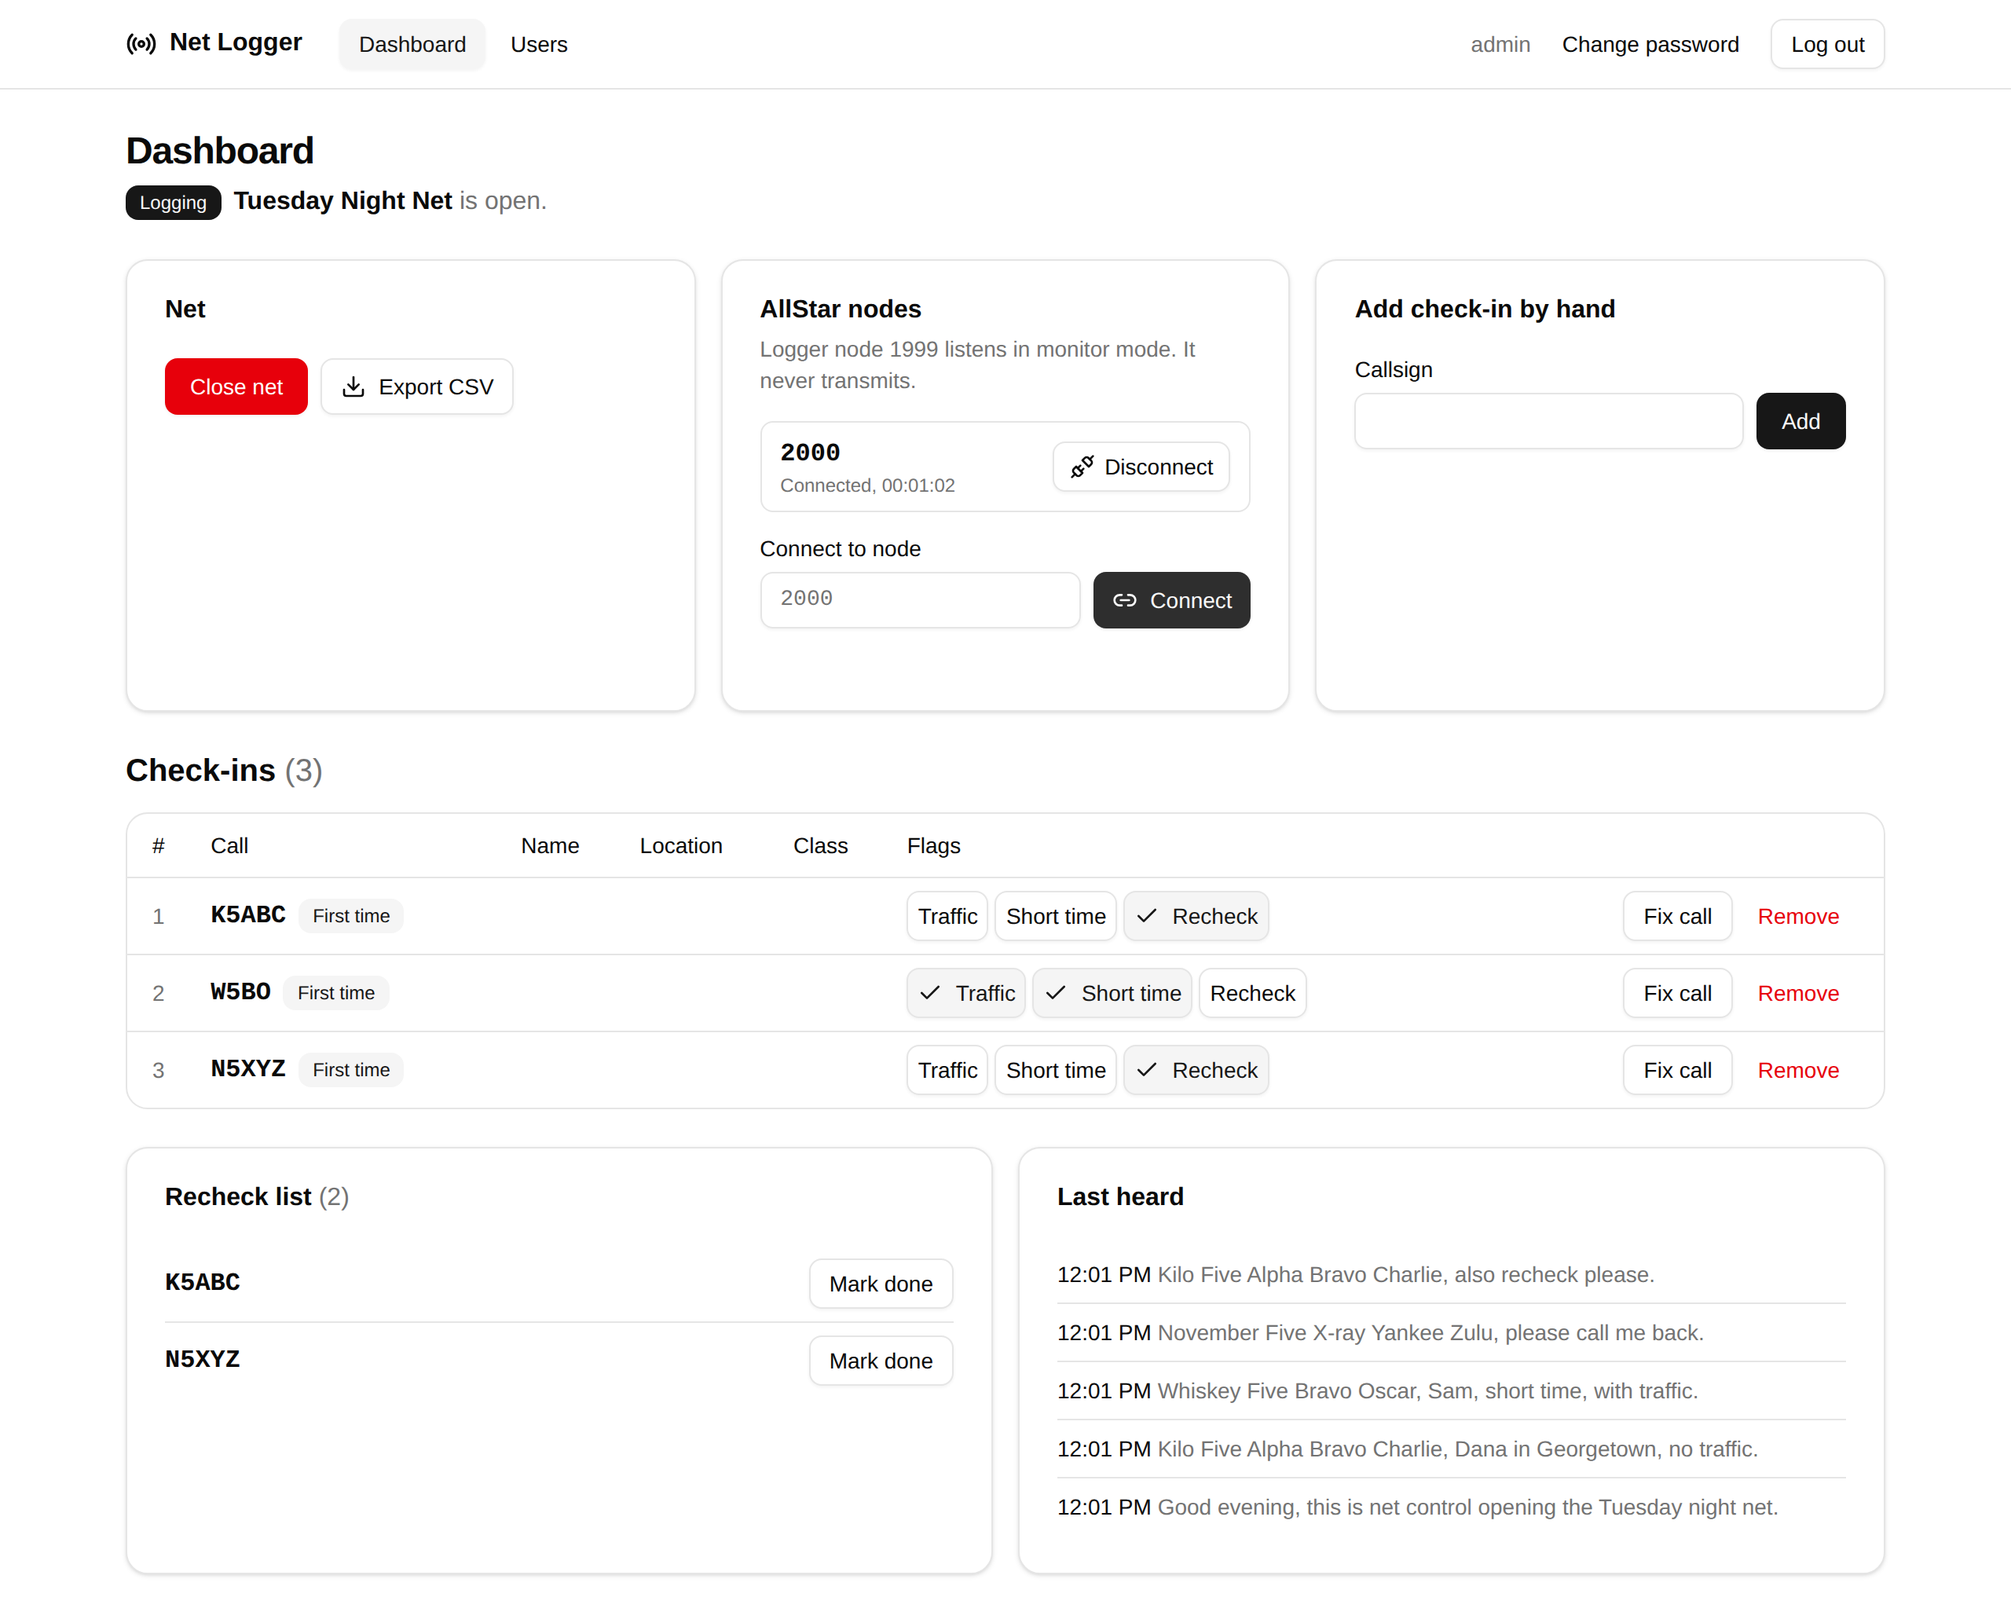
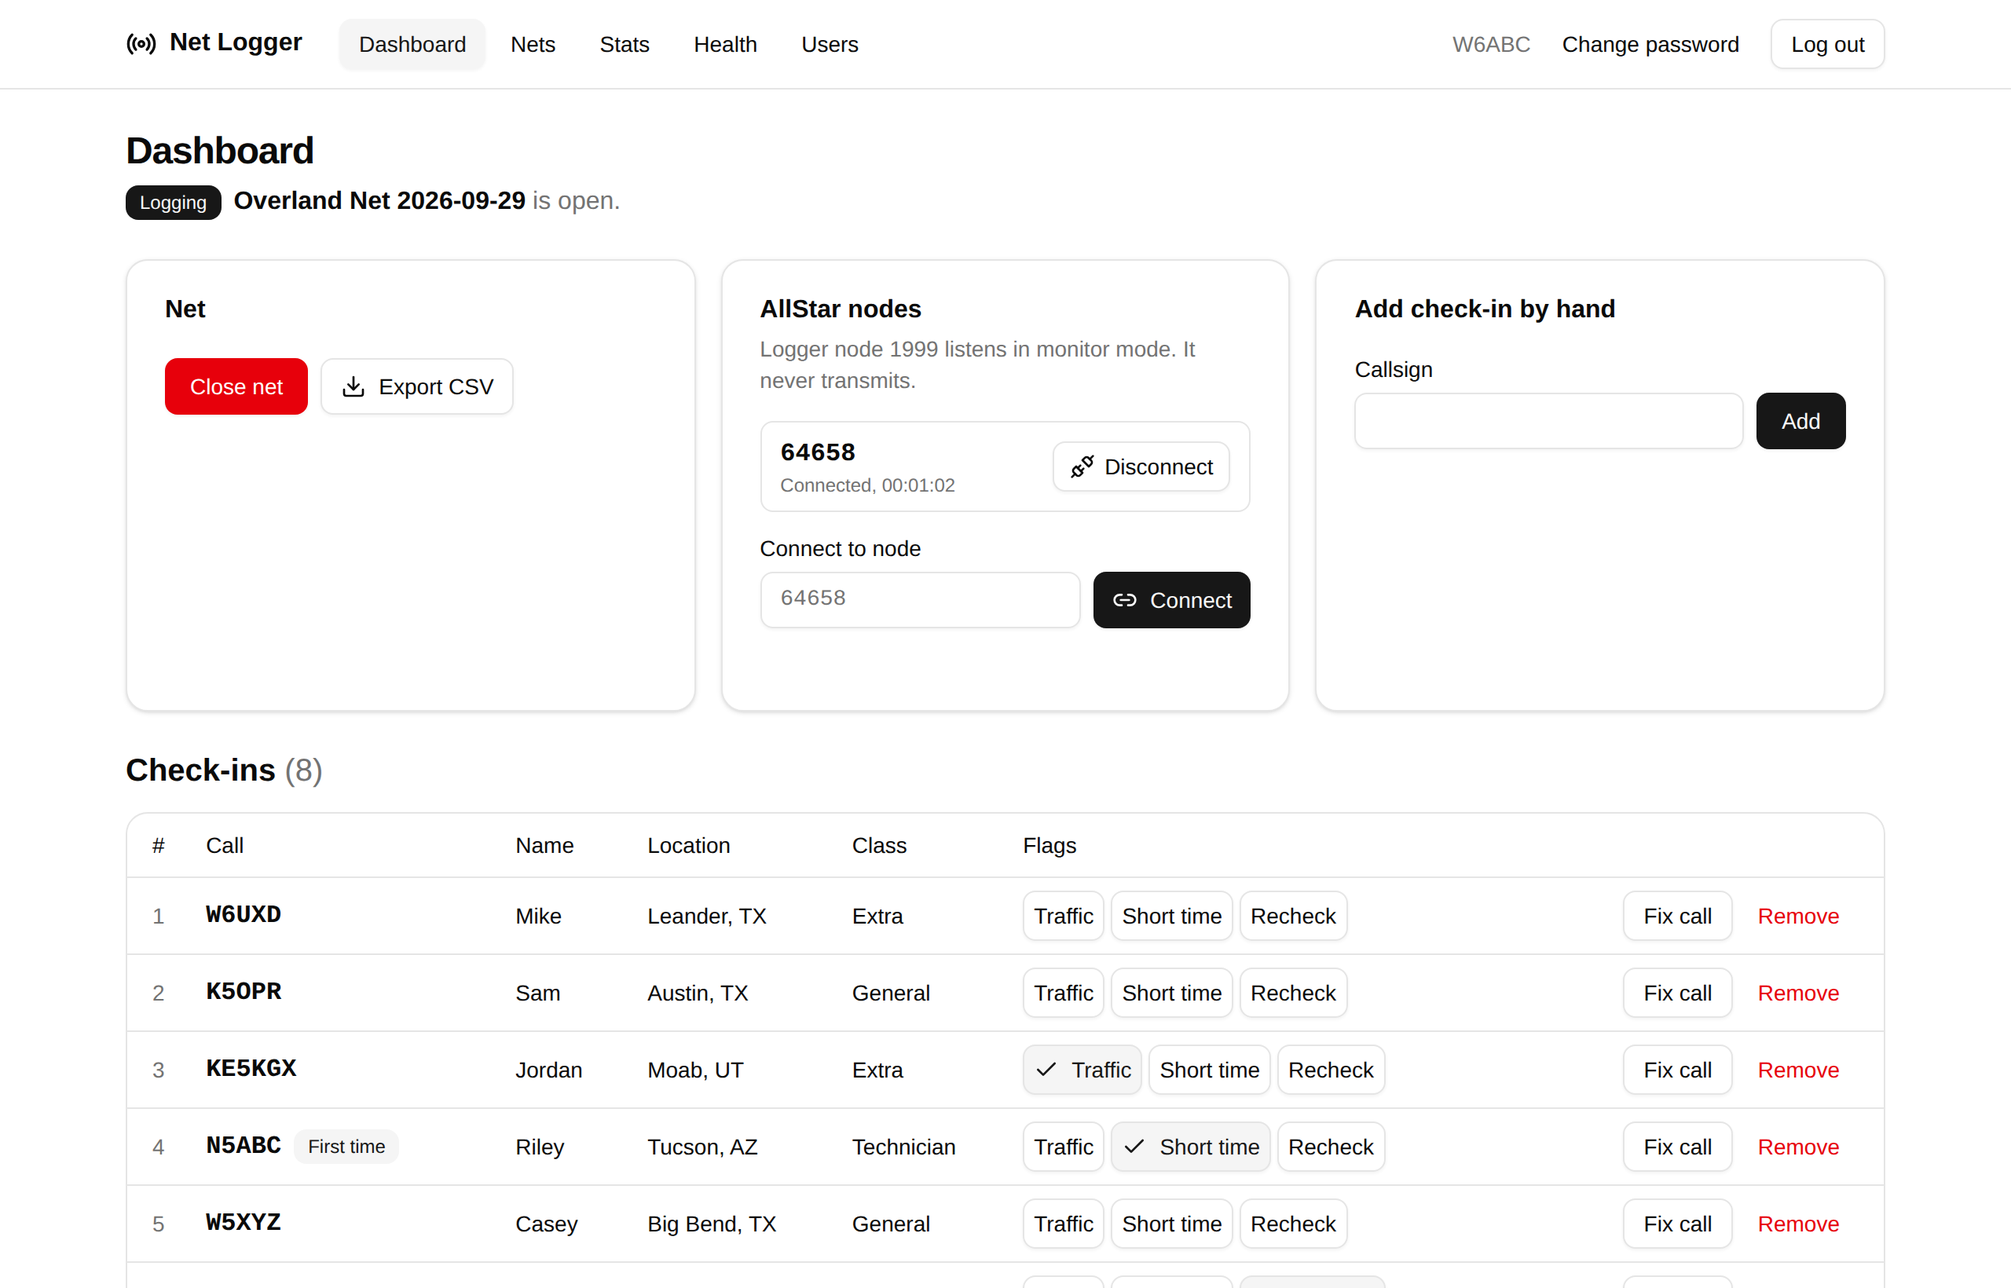
Accessibility audit fixes and release prep
- Reflows at 320px: nav wraps, wide tables scroll inside a focusable,
  named region, Users table no longer widens the page.
- Page titles per page, skip link target focusable, footer with Help
  and Source code links (AGPL), reduced motion honored.
- Error boxes meet 4.5:1 contrast. Larger small links.
- CHANGELOG folded into 1.0.0, README covers backups, lockout and
  callsigns from any country, new dashboard screenshot.

diff --git a/web/src/App.tsx b/web/src/App.tsx
@@ -11,6 +11,8 @@ import { Nets } from "@/pages/Nets";
 import { NetDetail } from "@/pages/NetDetail";
 import { PasswordDialog } from "@/components/PasswordDialog";
 
+const REPO = "https://github.com/InnerSpark/netlogger";
+
 type Status = { setup_needed: boolean; require_license: boolean; user: User | null };
 type View = "dashboard" | "users" | "health" | "stats" | "nets" | `net-${number}`;
 
@@ -63,10 +65,17 @@ export default function App() {
     requestAnimationFrame(() => document.querySelector<HTMLElement>("main h1")?.focus());
   }, [shown, userId, loaded]);
 
+  // Page title names the page first, so tabs and screen readers say where you are
+  useEffect(() => {
+    const names: Record<string, string> = { dashboard: "Dashboard", nets: "Nets", stats: "Stats", health: "Health", users: "Users" };
+    const page = !status?.user ? (status?.setup_needed ? "Set up" : "Log in") : shown.startsWith("net-") ? "Net log" : names[shown];
+    document.title = page ? `${page} · Net Logger` : "Net Logger";
+  }, [shown, status]);
+
   if (error) {
     return (
       <main className="mx-auto max-w-md px-4 py-16">
-        <p role="alert" className="rounded-md border border-destructive/50 bg-destructive/10 px-4 py-3 text-destructive">{error}</p>
+        <p role="alert" className="rounded-md border border-destructive/50 bg-background px-4 py-3 text-destructive">{error}</p>
         <Button className="mt-4" variant="outline" onClick={load}>Try again</Button>
       </main>
     );
@@ -99,7 +108,7 @@ export default function App() {
             <Radio aria-hidden="true" className="size-5" />
             Net Logger
           </span>
-          <nav aria-label="Main" className="flex gap-1">
+          <nav aria-label="Main" className="flex flex-wrap gap-1">
             <Button asChild variant={current === "dashboard" ? "secondary" : "ghost"} size="sm">
               <a href="#/" aria-current={current === "dashboard" ? "page" : undefined}>Dashboard</a>
             </Button>
@@ -130,7 +139,7 @@ export default function App() {
           </div>
         </div>
       </header>
-      <main id="main" className="mx-auto max-w-6xl px-4 py-6">
+      <main id="main" tabIndex={-1} className="mx-auto max-w-6xl px-4 py-6 outline-none">
         {current === "users" ? <Users me={user} />
           : current === "health" ? <Health />
           : current === "nets" ? <Nets />
@@ -138,6 +147,15 @@ export default function App() {
           : current.startsWith("net-") ? <NetDetail key={current} id={Number(current.slice(4))} />
           : <Dashboard admin={user.role === "admin"} />}
       </main>
+      <footer className="mx-auto flex max-w-6xl flex-wrap gap-x-4 gap-y-1 border-t px-4 py-4 text-sm text-muted-foreground">
+        <span>Net Logger, free software under the AGPL-3.0</span>
+        <a href={`${REPO}#readme`} target="_blank" rel="noreferrer" className="inline-flex min-h-6 items-center underline underline-offset-4 max-md:min-h-11">
+          Help<span className="sr-only"> (opens in a new tab)</span>
+        </a>
+        <a href={REPO} target="_blank" rel="noreferrer" className="inline-flex min-h-6 items-center underline underline-offset-4 max-md:min-h-11">
+          Source code<span className="sr-only"> (opens in a new tab)</span>
+        </a>
+      </footer>
     </>
   );
 }

diff --git a/web/src/pages/Users.tsx b/web/src/pages/Users.tsx
@@ -50,14 +50,14 @@ export function Users({ me }: { me: User }) {
         <p className="text-muted-foreground">{ROLE_HELP}</p>
       </div>
 
-      {error && <p role="alert" className="rounded-md border border-destructive/50 bg-destructive/10 px-3 py-2 text-sm text-destructive">{error}</p>}
+      {error && <p role="alert" className="rounded-md border border-destructive/50 bg-background px-3 py-2 text-sm text-destructive">{error}</p>}
 
       <div className="grid gap-4 lg:grid-cols-[1fr_22rem]">
-        <div className="rounded-xl border bg-card">
+        <div className="min-w-0 rounded-xl border bg-card">
           {!users ? (
             <p className="p-4 text-muted-foreground">Loading…</p>
           ) : (
-            <Table>
+            <Table label="Users">
               <TableHeader>
                 <TableRow>
                   <TableHead scope="col" className="pl-4">Callsign</TableHead>
@@ -80,6 +80,7 @@ export function Users({ me }: { me: User }) {
                     <TableCell>
                       {!u.license_ok ? <Badge variant="destructive">Not verified</Badge>
                         : u.verified_by === "callook" ? <span className="text-muted-foreground">FCC checked</span>
+                        : u.verified_by === "self" ? <span className="text-muted-foreground">Self-entered (first admin)</span>
                         : u.verified_by ? <span className="text-muted-foreground">Checked by {u.verified_by.replace("admin:", "")}</span>
                         : <span className="text-muted-foreground">Not required</span>}
                     </TableCell>
@@ -154,7 +155,7 @@ function AddUser({ onAdded }: { onAdded: (users: User[], name: string) => void }
             <label className="flex items-start gap-2 text-sm">
               <input type="checkbox" checked={manual} onChange={(e) => setManual(e.target.checked)}
                 className="mt-0.5 size-4 accent-primary" />
-              <span>I checked this license myself <span className="text-muted-foreground">(non-US calls, or when the FCC lookup is down)</span></span>
+              <span>I checked this license myself <span className="text-muted-foreground">(calls from outside the US, or when the FCC lookup is down)</span></span>
             </label>
           </div>
           <div className="flex flex-col gap-2">

diff --git a/web/src/pages/Stats.tsx b/web/src/pages/Stats.tsx
@@ -65,7 +65,7 @@ export function Stats() {
         {data ? `Showing ${data.nets.length} ${data.nets.length === 1 ? "net" : "nets"}, ${range.label.toLowerCase()}.` : ""}
       </p>
 
-      {error && <p role="alert" className="rounded-md border border-destructive/50 bg-destructive/10 px-3 py-2 text-sm text-destructive">{error}</p>}
+      {error && <p role="alert" className="rounded-md border border-destructive/50 bg-background px-3 py-2 text-sm text-destructive">{error}</p>}
 
       {!data ? <p className="text-muted-foreground">Loading…</p> : data.nets.length === 0 ? (
         <Card>
@@ -183,7 +183,7 @@ function CheckinsChart({ nets }: { nets: StatNet[] }) {
           <li className="flex items-center gap-1.5"><span aria-hidden="true" className="size-3 rounded-sm bg-[var(--series-2)]" />First time</li>
         </ul>
         <div ref={wrap} className="relative w-full" onMouseLeave={() => setHover(null)}>
-          <svg width={w} height={H} role="img" aria-label={summary} className="block overflow-visible">
+          <svg width={w} height={H} role="img" aria-label={summary} className="block max-w-full overflow-visible">
             {ticks.map((t) => (
               <g key={t}>
                 <line x1={PAD.left} x2={w - PAD.right} y1={y(t)} y2={y(t)} stroke="var(--border)" strokeWidth={1} />
@@ -241,7 +241,7 @@ function CheckinsChart({ nets }: { nets: StatNet[] }) {
 
         {table && (
           <div id="checkins-table" className="rounded-xl border">
-            <Table>
+            <Table label="Check-ins per net">
               <TableHeader>
                 <TableRow>
                   <TableHead scope="col" className="pl-4">Date</TableHead>
@@ -281,7 +281,7 @@ function Regulars({ data }: { data: StatsData }) {
         <CardDescription>Stations that checked in most in this range.</CardDescription>
       </CardHeader>
       <CardContent className="px-0">
-        <Table>
+        <Table label="Regulars">
           <TableHeader>
             <TableRow>
               <TableHead scope="col" className="pl-6">Call</TableHead>

diff --git a/web/src/components/ui/table.tsx b/web/src/components/ui/table.tsx
@@ -1,9 +1,24 @@
 import * as React from "react";
 import { cn } from "@/lib/utils";
 
-function Table({ className, ...props }: React.ComponentProps<"table">) {
+// Net Logger change: when a table is wider than the screen, its scroll box becomes a named,
+// focusable region so keyboard users can scroll it (WCAG 2.1.1).
+function Table({ className, label, ...props }: React.ComponentProps<"table"> & { label?: string }) {
+  const box = React.useRef<HTMLDivElement>(null);
+  const [scrolls, setScrolls] = React.useState(false);
+  React.useEffect(() => {
+    const el = box.current;
+    if (!el) return;
+    const check = () => setScrolls(el.scrollWidth > el.clientWidth + 1);
+    check();
+    const ro = new ResizeObserver(check);
+    ro.observe(el);
+    if (el.firstElementChild) ro.observe(el.firstElementChild);
+    return () => ro.disconnect();
+  }, []);
   return (
-    <div data-slot="table-container" className="relative w-full overflow-x-auto">
+    <div ref={box} data-slot="table-container" className="relative w-full overflow-x-auto focus-visible:outline-2 focus-visible:outline-ring"
+      {...(scrolls ? { tabIndex: 0, role: "region", "aria-label": label ? `${label}, scrolls sideways` : "Table, scrolls sideways" } : {})}>
       <table data-slot="table" className={cn("w-full caption-bottom text-sm", className)} {...props} />
     </div>
   );

diff --git a/web/src/components/NodePanel.tsx b/web/src/components/NodePanel.tsx
@@ -73,7 +73,7 @@ export function NodePanel({ admin }: { admin: boolean }) {
       {s?.enabled && (
         <CardContent className="flex flex-col gap-4">
           {s.error ? (
-            <p role="alert" className="rounded-md border border-destructive/50 bg-destructive/10 px-3 py-2 text-sm text-destructive">{s.error}</p>
+            <p role="alert" className="rounded-md border border-destructive/50 bg-background px-3 py-2 text-sm text-destructive">{s.error}</p>
           ) : s.links.length === 0 ? (
             <p className="text-sm text-muted-foreground">Not connected. Nothing is being logged from the air.</p>
           ) : (
@@ -104,7 +104,7 @@ export function NodePanel({ admin }: { admin: boolean }) {
               <Button type="submit" disabled={busy} className="max-md:h-11"><Link2 aria-hidden="true" />Connect</Button>
             </div>
             {s.default_node && !s.links.some((l) => l.node === s.default_node) && (
-              <Button type="button" variant="link" className="h-auto self-start p-0" disabled={busy}
+              <Button type="button" variant="link" className="h-auto min-h-6 self-start p-0 max-md:min-h-11" disabled={busy}
                 onClick={() => act("connect", s.default_node)}>
                 Connect to default node {s.default_node}
               </Button>

diff --git a/web/src/pages/Health.tsx b/web/src/pages/Health.tsx
@@ -116,7 +116,7 @@ export function Health() {
         </p>
       </div>
 
-      {error && <p role="alert" className="rounded-md border border-destructive/50 bg-destructive/10 px-3 py-2 text-sm text-destructive">{error}</p>}
+      {error && <p role="alert" className="rounded-md border border-destructive/50 bg-background px-3 py-2 text-sm text-destructive">{error}</p>}
 
       <Card className="gap-4">
         <CardHeader>
@@ -136,7 +136,7 @@ export function Health() {
                     <span className="text-sm text-muted-foreground">{c.detail}</span>
                     {c.step && (
                       <a href={`#/health`} onClick={(e) => { e.preventDefault(); goToStep(c.step!); }}
-                        className="inline-flex w-fit items-center text-sm font-medium underline underline-offset-4 max-md:min-h-11">
+                        className="inline-flex min-h-6 w-fit items-center text-sm font-medium underline underline-offset-4 max-md:min-h-11">
                         Go to step {c.step}<span className="sr-only"> of the setup guide</span>
                       </a>
                     )}

diff --git a/web/src/pages/NetDetail.tsx b/web/src/pages/NetDetail.tsx
@@ -26,7 +26,7 @@ export function NetDetail({ id }: { id: number }) {
     return needle ? d.transmissions.filter((t) => `${t.text} ${t.calls || ""}`.toLowerCase().includes(needle)) : d.transmissions;
   }, [d, q]);
 
-  if (error) return <p role="alert" className="rounded-md border border-destructive/50 bg-destructive/10 px-3 py-2 text-destructive">{error}</p>;
+  if (error) return <p role="alert" className="rounded-md border border-destructive/50 bg-background px-3 py-2 text-destructive">{error}</p>;
 
   return (
     <div className="flex flex-col gap-6">
@@ -61,7 +61,7 @@ export function NetDetail({ id }: { id: number }) {
             <h2 id="h-roster" className="text-xl font-semibold">Check-ins</h2>
             {d.checkins.length === 0 ? <p className="text-muted-foreground">No check-ins logged.</p> : (
               <div className="rounded-xl border bg-card">
-                <Table>
+                <Table label="Check-ins">
                   <TableHeader>
                     <TableRow>
                       <TableHead scope="col" className="pl-4 max-md:hidden">#</TableHead>

diff --git a/web/src/pages/Nets.tsx b/web/src/pages/Nets.tsx
@@ -66,7 +66,7 @@ export function Nets() {
         <p className="text-muted-foreground">Schedule nets to open on their own, and look back at past nets.</p>
       </div>
 
-      {error && <p role="alert" className="rounded-md border border-destructive/50 bg-destructive/10 px-3 py-2 text-sm text-destructive">{error}</p>}
+      {error && <p role="alert" className="rounded-md border border-destructive/50 bg-background px-3 py-2 text-sm text-destructive">{error}</p>}
 
       <section aria-labelledby="h-scheduled" className="flex flex-col gap-3">
         <div className="flex flex-wrap items-center justify-between gap-2">
@@ -139,7 +139,7 @@ export function Nets() {
           <p className="rounded-xl border border-dashed px-4 py-8 text-center text-muted-foreground">No nets logged yet.</p>
         ) : (
           <div className="rounded-xl border bg-card">
-            <Table>
+            <Table label="Past nets">
               <TableHeader>
                 <TableRow>
                   <TableHead scope="col" className="pl-4">Net</TableHead>

diff --git a/web/src/pages/Dashboard.tsx b/web/src/pages/Dashboard.tsx
@@ -126,7 +126,7 @@ export function Dashboard({ admin }: { admin: boolean }) {
           )}
         </p>
         {offline && (
-          <p role="alert" className="rounded-md border border-destructive/50 bg-destructive/10 px-3 py-2 text-sm text-destructive">
+          <p role="alert" className="rounded-md border border-destructive/50 bg-background px-3 py-2 text-sm text-destructive">
             Lost connection to the logger. Retrying…
           </p>
         )}
@@ -190,7 +190,7 @@ export function Dashboard({ admin }: { admin: boolean }) {
           </ol>
         ) : (
           <div className="rounded-xl border bg-card">
-            <Table>
+            <Table label="Check-ins">
               <TableHeader>
                 <TableRow>
                   <TableHead scope="col" className="pl-4">#</TableHead>

diff --git a/web/src/pages/AuthScreen.tsx b/web/src/pages/AuthScreen.tsx
@@ -58,7 +58,7 @@ export function AuthScreen({ mode, onDone, requireLicense = true }: { mode: "set
           <CardDescription>
             {setup
               ? requireLicense
-                ? "Create the first admin account. Your callsign is checked against the FCC license database."
+                ? "Create the first admin account. US callsigns are checked against the FCC license database. Calls from other countries are accepted as entered."
                 : "Create the first admin account. You can add net control operators after."
               : "Use the account your logger admin gave you."}
           </CardDescription>

diff --git a/web/index.html b/web/index.html
@@ -4,6 +4,8 @@
     <meta charset="UTF-8" />
     <link rel="icon" type="image/svg+xml" href="/favicon.svg" />
     <meta name="viewport" content="width=device-width, initial-scale=1.0" />
+    <meta name="description" content="Net Logger: receive-only AllStar net check-in logger for amateur radio nets." />
+    <meta name="robots" content="noindex, nofollow" />
     <title>Net Logger</title>
   </head>
   <body>

diff --git a/web/src/index.css b/web/src/index.css
@@ -91,3 +91,13 @@
     }
   }
 }
+
+/* Respect "reduce motion": no animated transitions or spinners */
+@media (prefers-reduced-motion: reduce) {
+  *, *::before, *::after {
+    animation-duration: 0.01ms !important;
+    animation-iteration-count: 1 !important;
+    transition-duration: 0.01ms !important;
+    scroll-behavior: auto !important;
+  }
+}
